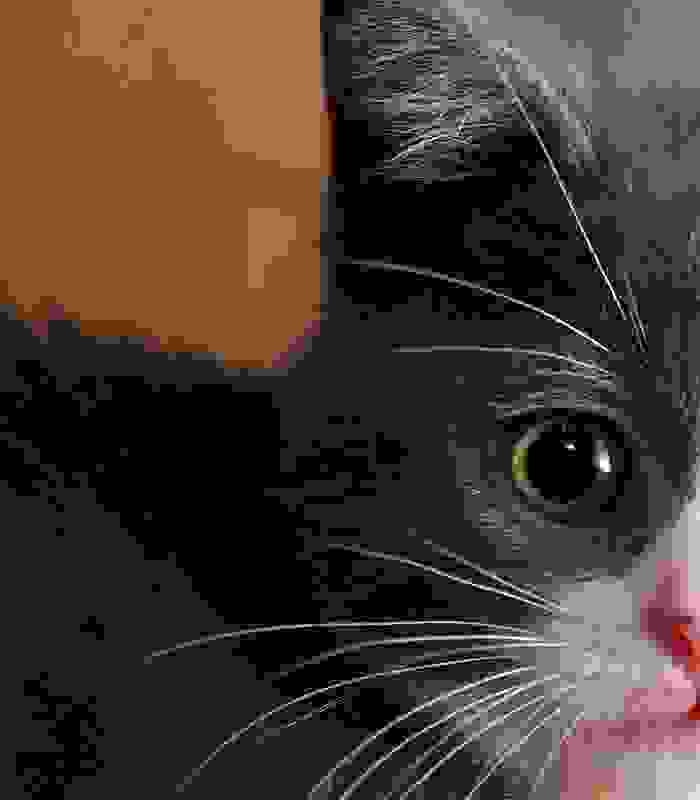
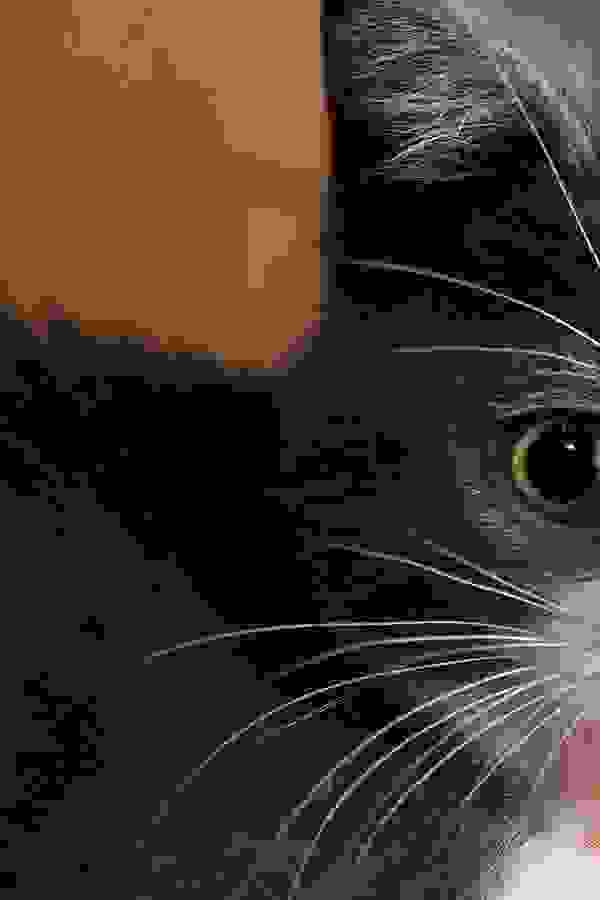
cropit: Add flags

diff --git a/main.go b/main.go
@@ -9,13 +9,21 @@ import (
 	"log"
 	"os"
 	"path/filepath"
+	"flag"
 	"github.com/oliamb/cutter"
 )
 
 func main() {
 
+	// Setup the flags
+	cHeight := flag.Int("height", 0, "Crop Height")
+	cWidth := flag.Int("width", 0, "Crop Width")
+	flag.Parse()
+
+	//XX: Check flags, file name specified
+
 	// Open the file specified as the first argument
-	inputFilePath := os.Args[1]
+	inputFilePath := flag.Args()[0]
 	inputFileDir, inputFileName := filepath.Split(inputFilePath)
 	f, err := os.Open(inputFilePath)
 	if err != nil {
@@ -30,11 +38,9 @@ func main() {
 	}
 
 	// Perform the cropping
-	cHeight := 800
-	cWidth := 700
 	croppedImg, err := cutter.Crop(img, cutter.Config{
-		Height:  cHeight,
-		Width:   cWidth,
+		Height:  *cHeight,
+		Width:   *cWidth,
 		Mode:    cutter.TopLeft,
 		Anchor:  image.Point{60, 10},
 		Options: 0,
